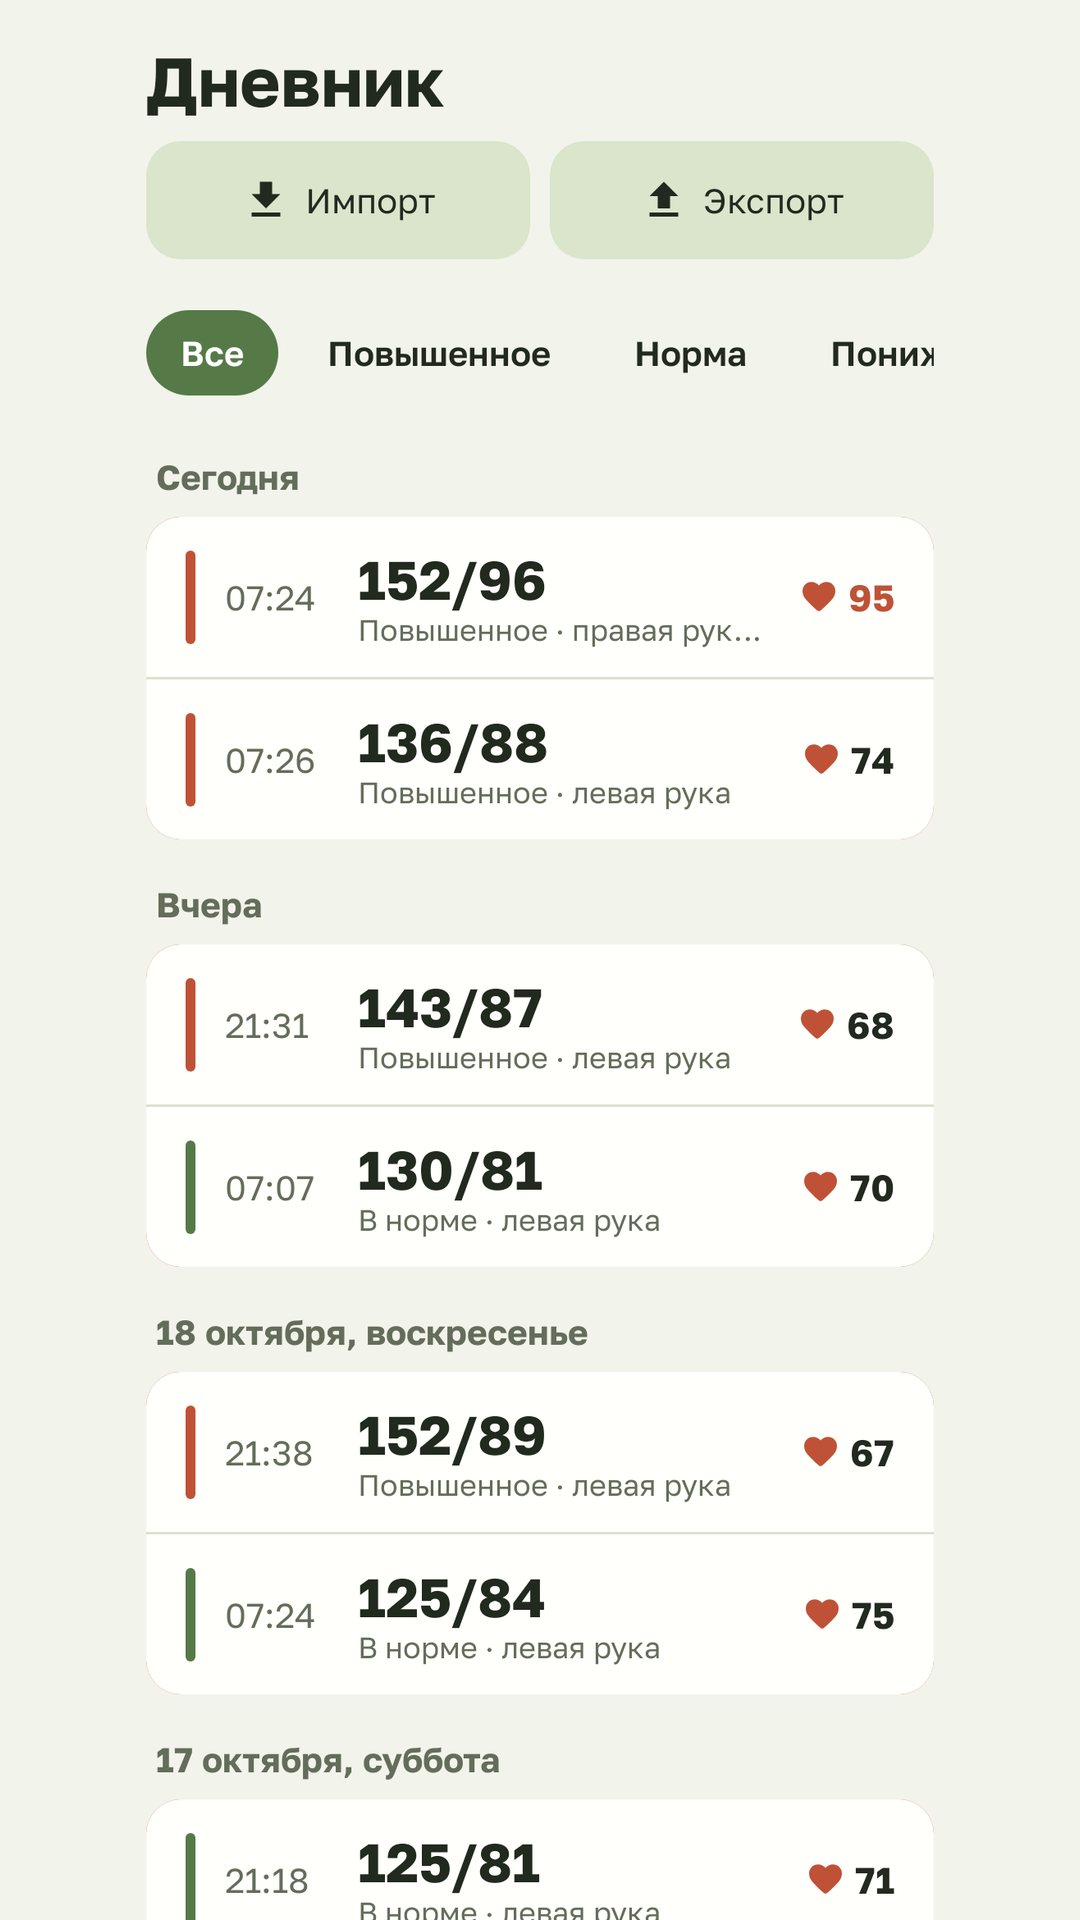
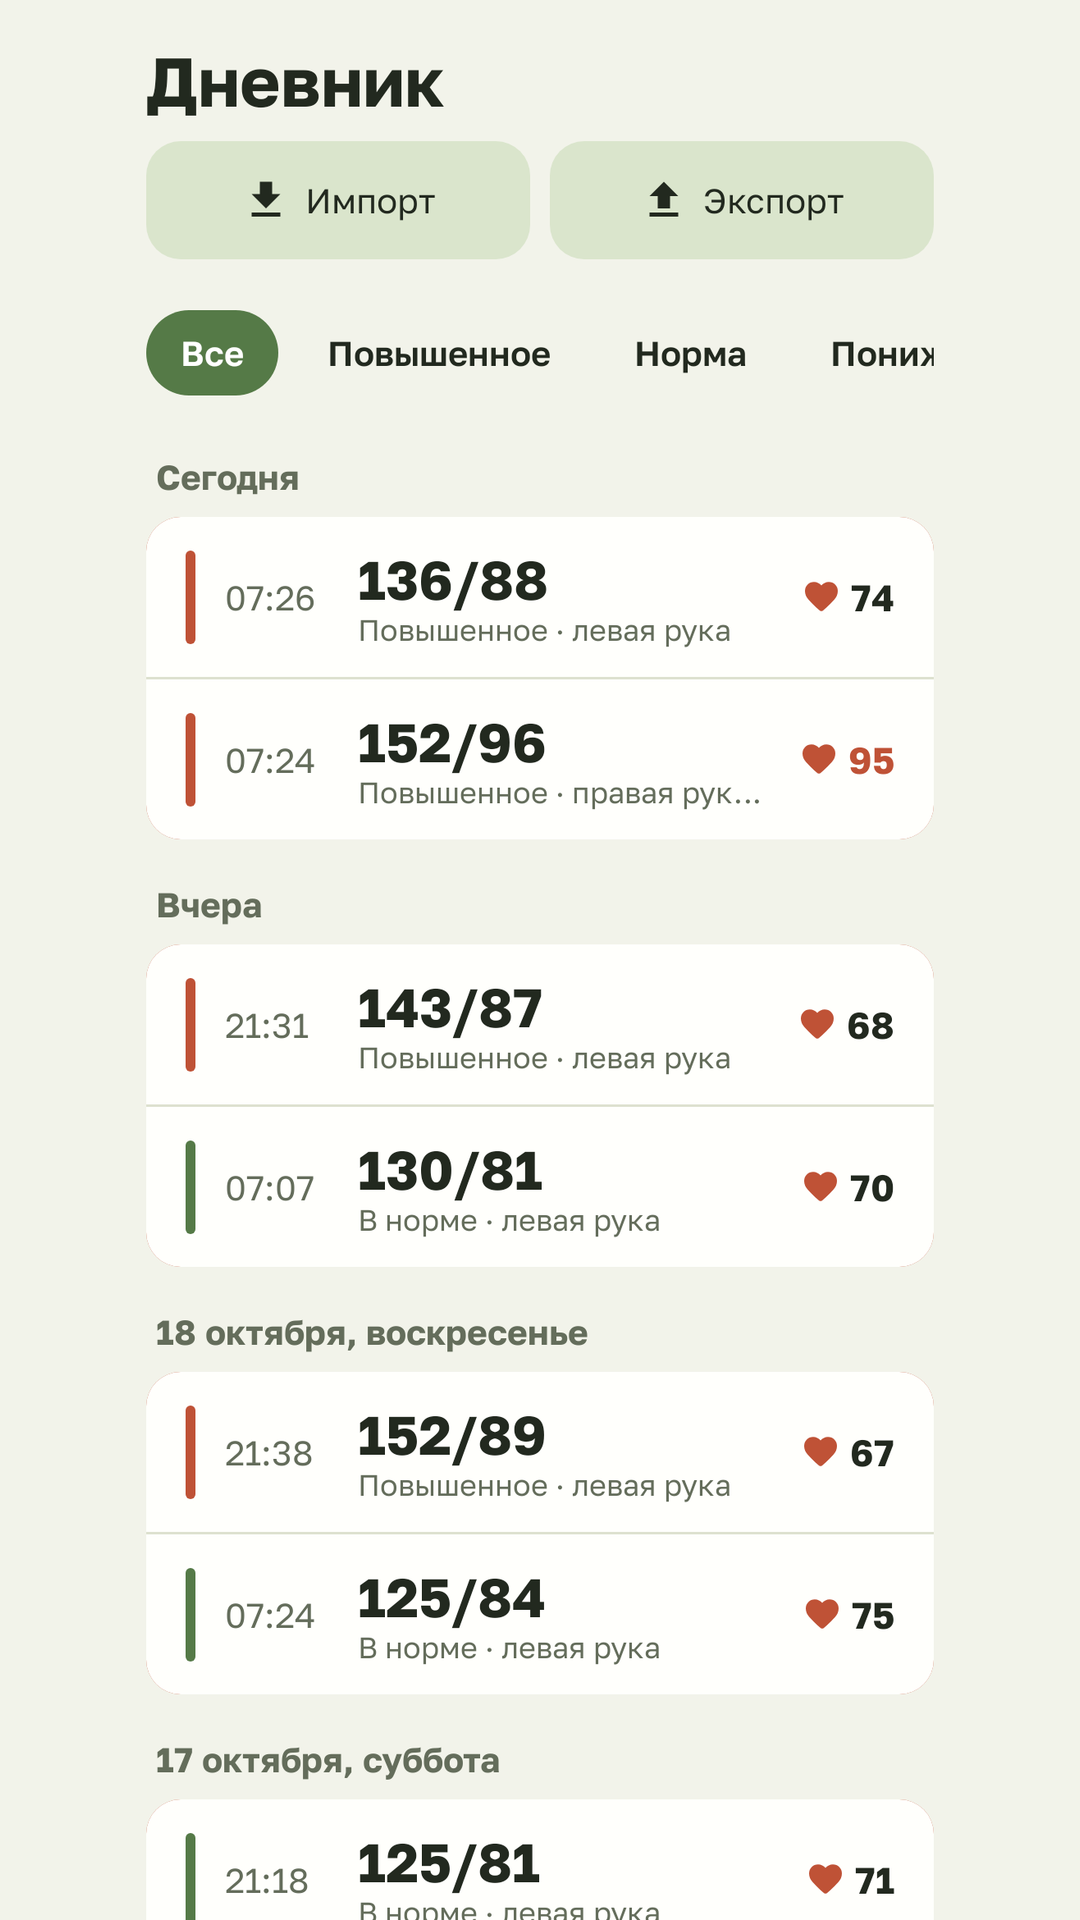
step R.F-05: diary snapshots in app order (newest first within a day)
The test put the hand-made 07:24 reading above 07:26. Re-recorded the
four diary_demo snapshots and the RuStore frame 03-dnevnik.png.

diff --git a/feature/diary/src/test/kotlin/ru/bpdiary/feature/diary/DiaryScreenTest.kt b/feature/diary/src/test/kotlin/ru/bpdiary/feature/diary/DiaryScreenTest.kt
@@ -105,7 +105,7 @@ class DiaryScreenTest {
         rule.onRoot().captureRoboImage("src/test/snapshots/$name.png")
     }
 
-    private val withTagged = listOf(tagged) + demo
+    private val withTagged = (listOf(tagged) + demo).sortedByDescending { it.takenAt }
 
     @Test
     fun `import and export open from the title, also with an empty diary`() {
